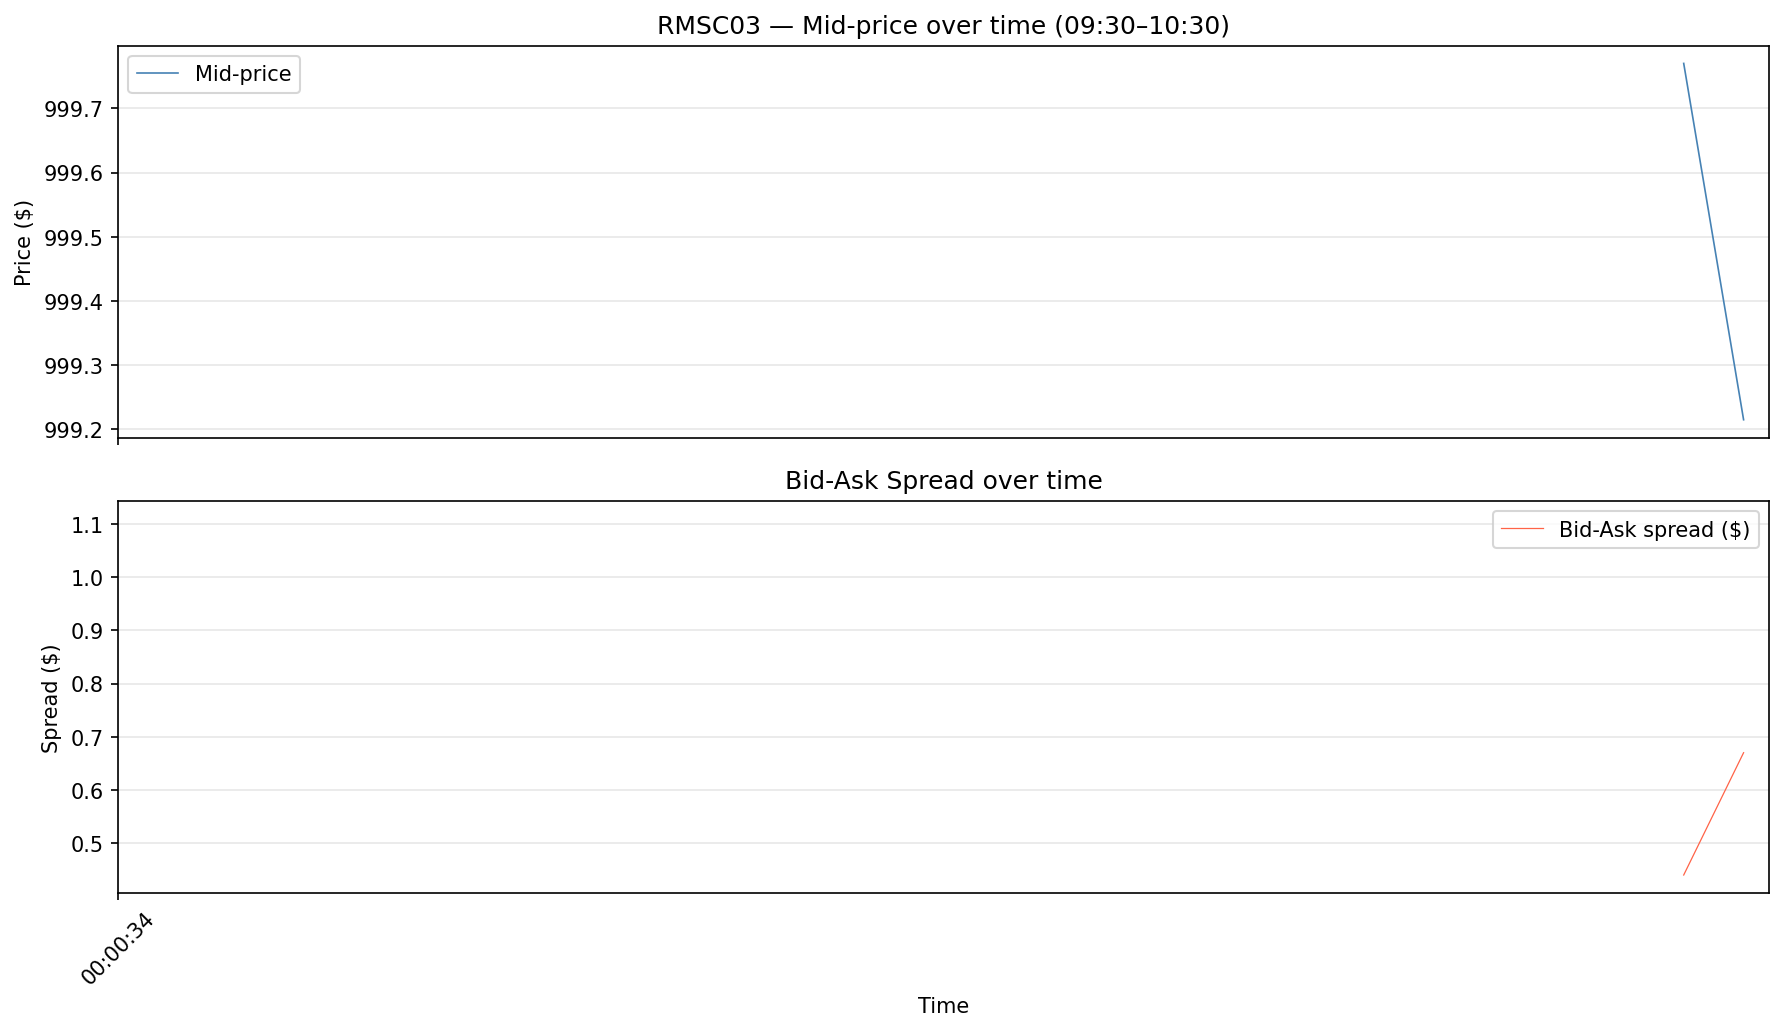
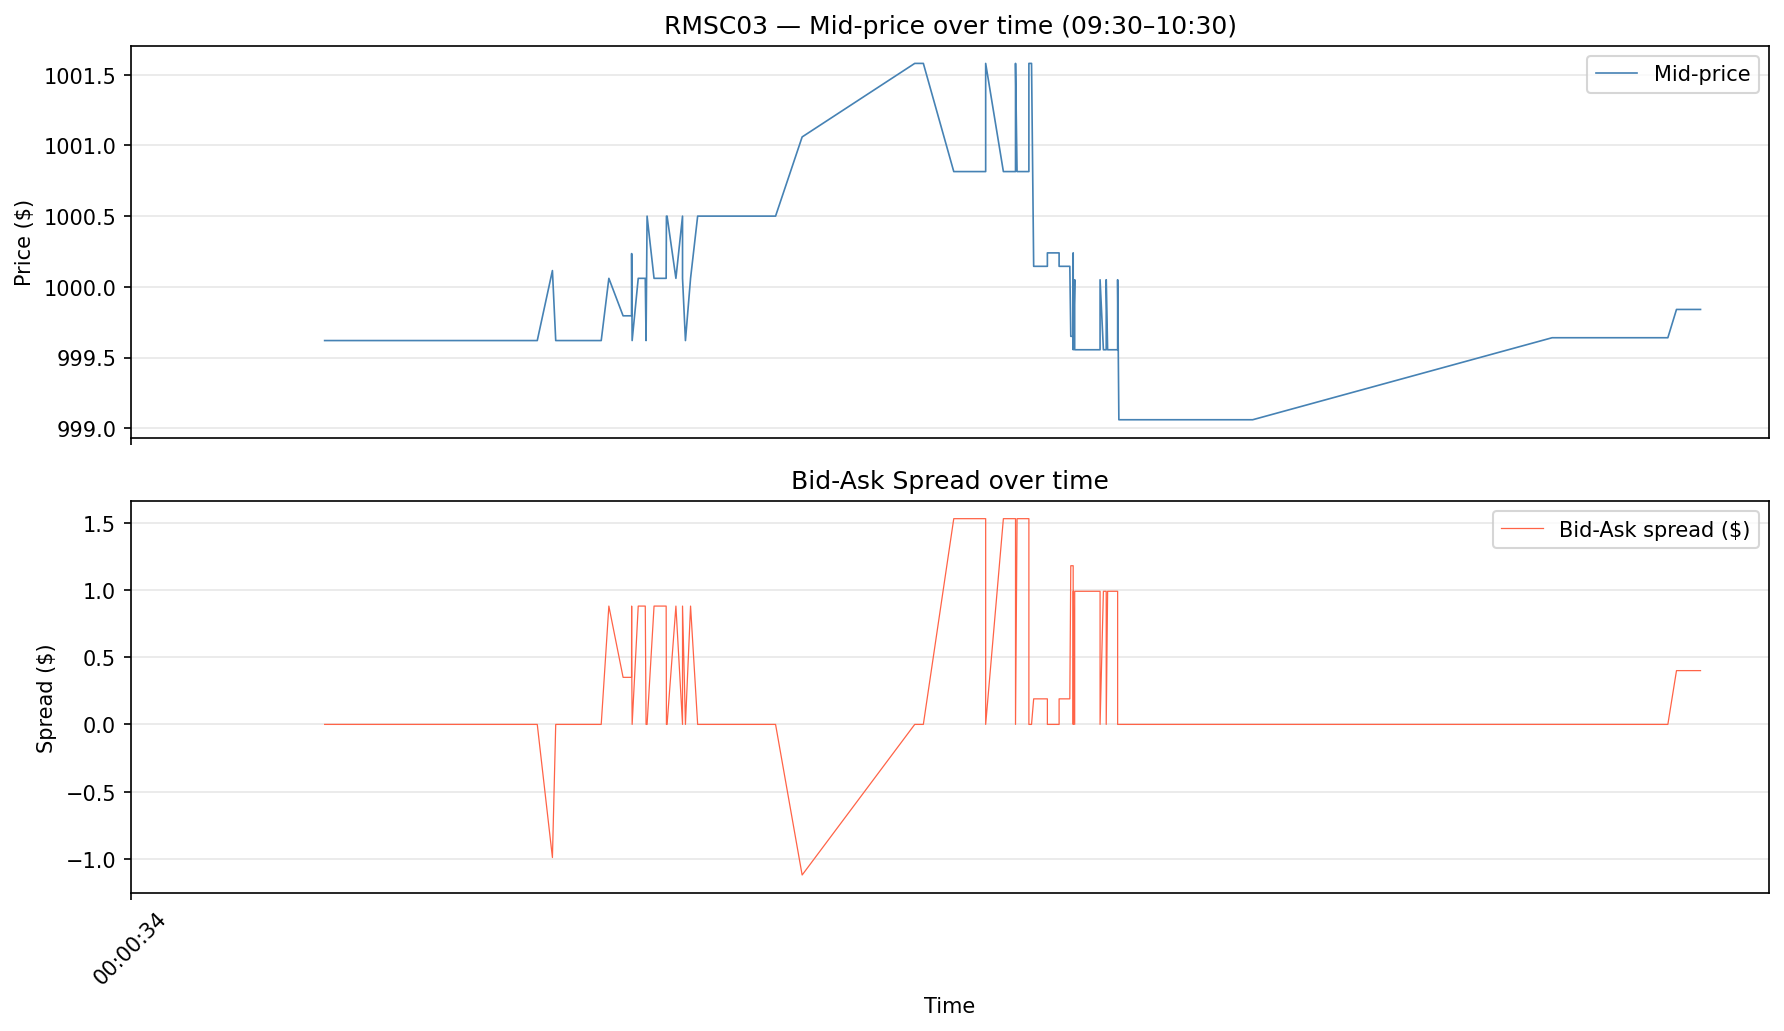
fix abides integration; vendor rmsc03_simple; document install
- agent_adapter.py: import path was `agent.TradingAgent` (pre-jpmc-fork
  ABIDES); fixed to `abides_markets.agents.trading_agent`. with this the
  previously-skipped marl_agent_imports test passes (25/25, no skips).

- src/marl_lob/configs/rmsc03_simple.py: thin shim over upstream rmsc03
  with reduced agent counts (2000 noise / 50 value / 10 momentum) so 1h
  sims finish in ~3s. notebook now imports from here.

- 00_abides_hello.ipynb: drop None rows in L1 snapshots before merging,
  otherwise the mid-price plot renders as nan-gap garbage. import
  switched to the vendored config.

- README: full install steps (conda-forge env, ABIDES clone, the small
  POVExecutionAgent patch in upstream rmsc03.py, which deps to skip).

- .gitignore: log/. removed two committed-by-accident summary_log dumps.

diff --git a/src/marl_lob/configs/rmsc03_simple.py b/src/marl_lob/configs/rmsc03_simple.py
@@ -1,0 +1,28 @@
+"""Smaller RMSC03 variant for fast local runs.
+
+Wraps upstream `abides_markets.configs.rmsc03` with reduced agent counts
+that still produce meaningful order-book activity:
+
+  1 Exchange | 1 Adaptive MM | 50 Value | 10 Momentum | 2000 Noise
+
+Noise count is the volume driver — drop below ~1000 and the L1 barely
+moves. Values were calibrated on a 1h sim (seed=42) producing ~140
+post-dropna L1 events, ~3s wallclock.
+
+Note: upstream rmsc03 imports POVExecutionAgent which is missing from the
+current JPMC fork. See README install section for the small patch.
+"""
+from abides_markets.configs import rmsc03
+
+
+def build_config(start_time="09:30:00", end_time="10:30:00", seed=1, **kwargs):
+    return rmsc03.build_config(
+        start_time=start_time,
+        end_time=end_time,
+        seed=seed,
+        num_noise_agents=kwargs.pop("num_noise_agents", 2000),
+        num_value_agents=kwargs.pop("num_value_agents", 50),
+        num_momentum_agents=kwargs.pop("num_momentum_agents", 10),
+        execution_agents=kwargs.pop("execution_agents", False),
+        **kwargs,
+    )

diff --git a/src/marl_lob/agent_adapter.py b/src/marl_lob/agent_adapter.py
@@ -20,7 +20,7 @@ from .actions import (
 )
 
 try:  # pragma: no cover — import is environment-dependent
-    from agent.TradingAgent import TradingAgent  # type: ignore
+    from abides_markets.agents.trading_agent import TradingAgent  # type: ignore
     _ABIDES_AVAILABLE = True
 except Exception:  # pragma: no cover
     TradingAgent = object  # type: ignore[misc, assignment]

diff --git a/README.md b/README.md
@@ -4,11 +4,62 @@ Multi-agent reinforcement learning in limit order books (ABIDES + PettingZoo + S
 
 ## Install
 
-Requires Python 3.11+.
+Requires Python 3.11. ABIDES's pinned deps don't build on 3.12, so use a 3.11 env (conda recommended).
 
 ```bash
-pip install -e .
+# 1) conda env (conda-forge only — avoids the Anaconda-channel ToS)
+conda create -n marl_lob -c conda-forge --override-channels python=3.11 -y
+conda activate marl_lob
+conda install -c conda-forge --override-channels pip -y
+
+# 2) clone ABIDES (jpmc fork) as a sibling of this repo
+git clone https://github.com/jpmorganchase/abides-jpmc-public.git ../abides-jpmc-public
+
+# 3) ABIDES needs a small patch — see "ABIDES patch" below — apply it before installing
+
+# 4) install ABIDES + this repo (relaxed deps; we skip gym/ray/pomegranate)
+pip install coloredlogs numpy pandas psutil scipy tqdm matplotlib jupyter
+pip install -e ../abides-jpmc-public/abides-core
+pip install -e ../abides-jpmc-public/abides-markets
+pip install -e ".[dev]"
 ```
+
+### ABIDES patch
+
+Upstream `abides-jpmc-public/abides-markets/abides_markets/configs/rmsc03.py` imports
+`POVExecutionAgent` (which doesn't exist in this fork) and instantiates it
+unconditionally. Two small edits:
+
+```python
+# at the top — replace the POVExecutionAgent import:
+from abides_markets.agents import (
+    ExchangeAgent,
+    NoiseAgent,
+    ValueAgent,
+    AdaptiveMarketMakerAgent,
+    MomentumAgent,
+)
+POVExecutionAgent = None  # not in this fork; only used when execution_agents=True
+```
+
+```python
+# around line 250 — guard the instantiation:
+if execution_agents and POVExecutionAgent is not None:
+    pov_agent = POVExecutionAgent(
+        # ...existing kwargs...
+    )
+    agents.append(pov_agent)
+    agent_types.extend("ExecutionAgent")
+    agent_count += 1
+```
+
+We don't use execution agents, so this is purely a "make the import work" patch.
+
+### Skipped ABIDES deps
+
+- `gym==0.18.0` — old setup metadata won't build on modern setuptools. Only used in `abides-gym` (which we don't need; we use PettingZoo + SB3).
+- `ray==1.7.0` — only used in `abides-gym`.
+- `pomegranate==0.14.5` — used by `OrderSizeModel` in rmsc04. We use rmsc03.
 
 ## Run tests
 
@@ -16,6 +67,12 @@ pip install -e .
 pytest
 ```
 
-## Installing ABIDES
+Should report 25 passed, 0 skipped.
 
-ABIDES is installed separately — see Lollo's notes (incoming).
+## Smoke-test ABIDES
+
+```bash
+jupyter notebook notebooks/00_abides_hello.ipynb
+```
+
+Run all cells. The mid-price + spread plot should render. ~3s sim wallclock for 1 simulated hour.